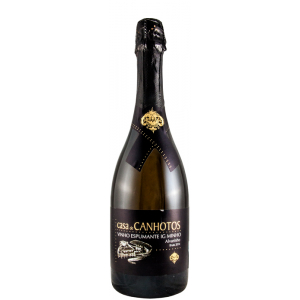
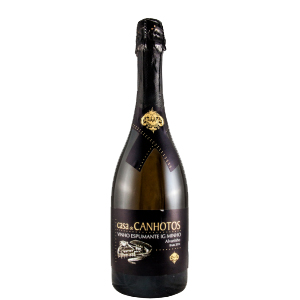
commit

diff --git a/brancos.html b/brancos.html
@@ -12,7 +12,9 @@
         margin-top: 90px;
         margin-left: 40px;
         margin-right: 30px;
+        background-color: white;
         margin-bottom: 90px
+
       }
       .image {
         display: block;
@@ -45,6 +47,11 @@
         left: 40%;
         transform: translate(-50%, -50%);
         -ms-transform: translate(-50%, -50%);
+      }
+      .button{
+        border-radius: 4em; 
+        background-color:#ffd480;
+        width: 80px
       }
       </style>
 	</head>
@@ -119,11 +126,12 @@
                             <table>
                                 <tr>
                                     <td>
-                                        <b> Manoella - Branco (2016) / Wine & Soul</b><br><br>
+                                        <b> Manoella - Branco (2016) / Wine & Soul</b><br>
                                         Após a colheita na segunda semana de setembro, os frutos foram selecionados e derrubados e depois esmagados em uma prensa pneumática. A fermentação subsequente foi realizada em um tanque de aço inoxidável a baixas temperaturas durante 4 semanas e, por fim, envelheceu nas lixas finas por 6 meses.<br><br>
                                           <b>Preço: 14,65€</b><br> 
-                                          <b>Álcool: </b>12,5%<br><br>
-                                          <b> Castas:	</b>Gouveio, Viosinho, Rabigato, Códega do Larinho
+                                          <b>Álcool: </b>12,5%
+                                          <b> Castas:	</b>Gouveio, Viosinho, Rabigato, Códega do Larinho<br><br>
+                                          <button class="button" onclick="manoella()">Comprar</button>
                                       </td>
                                 </tr>
                               </table>
@@ -140,12 +148,13 @@
                             <table>
                                 <tr>
                                     <td>
-                                        <b>Passa Branco (2017) / Quinta do Passadouro</b><br><br>
+                                        <b>Passa Branco (2017) / Quinta do Passadouro</b><br>
                                         Cor amarelo claro, este vinho aromático e crocante dá notas de citrinos e mineralidade. O seu corpo leve e excelente acidez torna-o um par perfeito com peixes<br><br>
                                           <b>Preço: 7,85€</b><br> 
 
-                                          <b>Álcool:</b> 12,5%<br><br>
-                                          <b> Castas: </b>Rabigato e Códega do Larinho.
+                                          <b>Álcool:</b> 12,5%
+                                          <b> Castas: </b>Rabigato e Códega do Larinho.<br><br>
+                                          <button class="button" onclick="passa()">Comprar</button>
                                       </td>
                                 </tr>
                               </table>
@@ -167,8 +176,9 @@
                                           <b> Meandro do Vale Meão - Branco (2017) / Quinta do Vale Meão </b><br><br>
                                           Após ligeiro esmagamento as uvas são sujeitas a um choque térmico, seguido de passagem por uma prensa vertical tradicional. O mosto é transferido para cubas de vinificação de pequena capacidade, com controlo de temperatura. As castas são vinificadas separadamente. O vinho estagia sobre as borras durante sete meses.<br><br>
                                             <b>Preço: 12,15€</b><br>  
-                                            <b>Álcool: </b>13%<br><br>
-                                            <b> Castas:	</b>60% Rabitgato e 40% Arinto
+                                            <b>Álcool: </b>13%
+                                            <b> Castas:	</b>60% Rabitgato e 40% Arinto<br><br>
+                                            <button class="button" onclick="meandro()">Comprar</button>
                                         </td>
                                   </tr>
                                 </table>
@@ -185,11 +195,12 @@
                               <table>
                                   <tr>
                                       <td>
-                                          <b> Coroa d'Ouro Branco (2017) / Poças Júnior</b><br><br>
+                                          <b> Coroa d'Ouro Branco (2017) / Poças Júnior</b><br>
                                           Produzido a partir de castas tradicionais da Região Demarcada do Douro, onde nasce o Vinho do Porto. Uvas cortadas à mão e transportadas em caixas de 30 kg. Fermentação a temperatura controlada. Em cubas de aço inox até ao engarrafamento. Amarelo palha suave. Frutado com notas tropicais. Fresco. com acidez equilibrada e persistente. Ideal como vinho de aperitivo. acompanha igualmente bem queijos leves e pratos delicados de aves, peixe ou marisco.<br><br>
                                             <b>Preço: 5,55€</b><br> 
-                                            <b>Álcool: </b>12,98%<br><br>
-                                            <b> Castas:	</b> Malvasia Fina, Códega; Rabigato, Viosinho, Moscatel
+                                            <b>Álcool: </b>12,98%
+                                            <b> Castas:	</b> Malvasia Fina, Códega; Rabigato, Viosinho, Moscatel<br><br>
+                                            <button class="button" onclick="ouro()">Comprar</button>
                                         </td>
                                   </tr>
                                 </table>
@@ -206,11 +217,12 @@
                               <table>
                                   <tr>
                                       <td>
-                                          <b> Poeira Branco 2016 / Jorge Nobre Moreira.</b><br><br>
+                                          <b> Poeira Branco 2016 / Jorge Nobre Moreira.</b><br>
                                           Os aromas da variedade estão bem em evidência no aroma aqui com notas verdes e um tom cítrico muito agradável ao nariz. Muito elegante na boca, tem um monte de variedade de caracteres.<br><br>
                                             <b>Preço: 29,40€</b><br> 
-                                            <b>Álcool:</b> 13,5%<br><br>
-                                            <b> Castas:	</b>Alvarinho
+                                            <b>Álcool:</b> 13,5%
+                                            <b> Castas:	</b>Alvarinho<br><br>
+                                            <button class="button" onclick="poeira()">Comprar</button>
                                         </td>
                                   </tr>
                                 </table>
@@ -247,21 +259,21 @@
               function guru(){
                     window.open("guru.html","_self")
                    }
-              function pintas(){
-                    window.open("pintas.html","_self")
+              function manoella(){
+                    window.open("manoella.html","_self")
                    }
-              function pintas(){
-                    window.open("pintas.html","_self")
+              function meandro(){
+                    window.open("meandro.html","_self")
                    }
-              function pintas(){
-                    window.open("pintas.html","_self")
+              function poeira(){
+                    window.open("poeirab.html","_self")
                    }
-              function pintas(){
-                    window.open("pintas.html","_self")
+              function passa(){
+                    window.open("passa.html","_self")
                    }
 
-              function pintas(){
-                    window.open("pintas.html","_self")
+              function ouro(){
+                    window.open("ouro.html","_self")
                    }
                
       </script>            

diff --git a/espumantes.html b/espumantes.html
@@ -12,7 +12,8 @@
         margin-top: 90px;
         margin-left: 40px;
         margin-right: 30px;
-        margin-bottom: 90px
+        margin-bottom: 90px;
+        background-color: white;
       }
       .image {
         display: block;
@@ -176,7 +177,7 @@
                       </td>
                       <td>
                             <div class="container">
-                              <img src="..//new-TAW-project/imagens/periVint.jpg" alt="Avatar" class="image">
+                              <img src="..//new-TAW-project/imagens/periVint.png" alt="Avatar" class="image">
                               <div class="overlay">
                                 <div class="text">
                                   <table>

diff --git a/outros.html b/outros.html
@@ -11,6 +11,7 @@
         margin-top: 90px;
         margin-left: 40px;
         margin-right: 30px;
+        background-color: white;
         margin-bottom: 90px
       }
       .image {

diff --git a/tintos.html b/tintos.html
@@ -11,6 +11,7 @@
         margin-top: 90px;
         margin-left: 40px;
         margin-right: 30px;
+        background-color: white;
         margin-bottom: 90px
       }
       .image {
